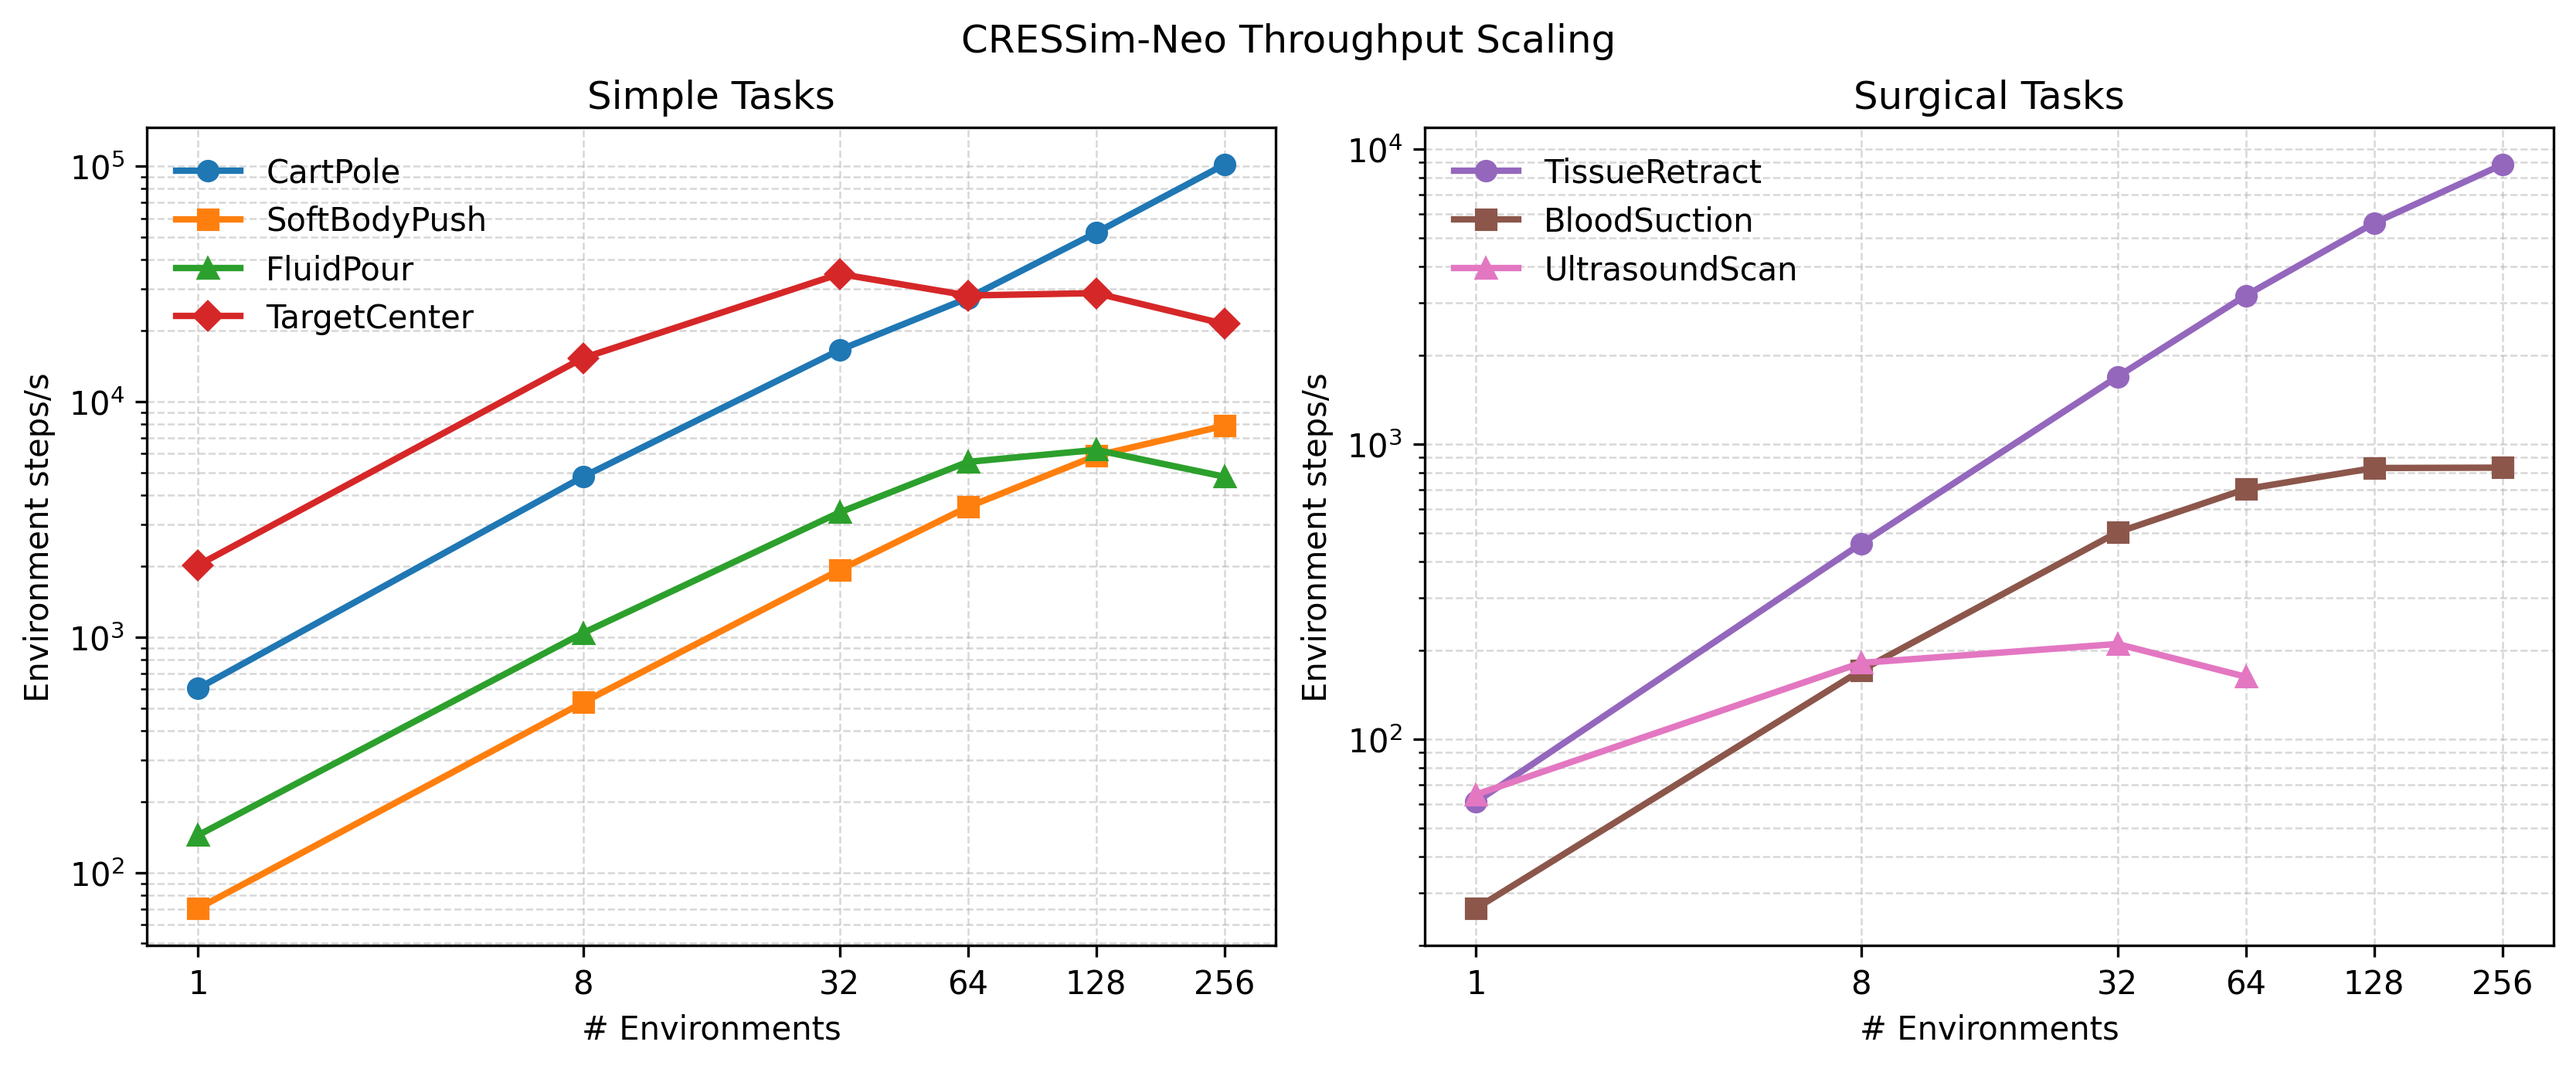
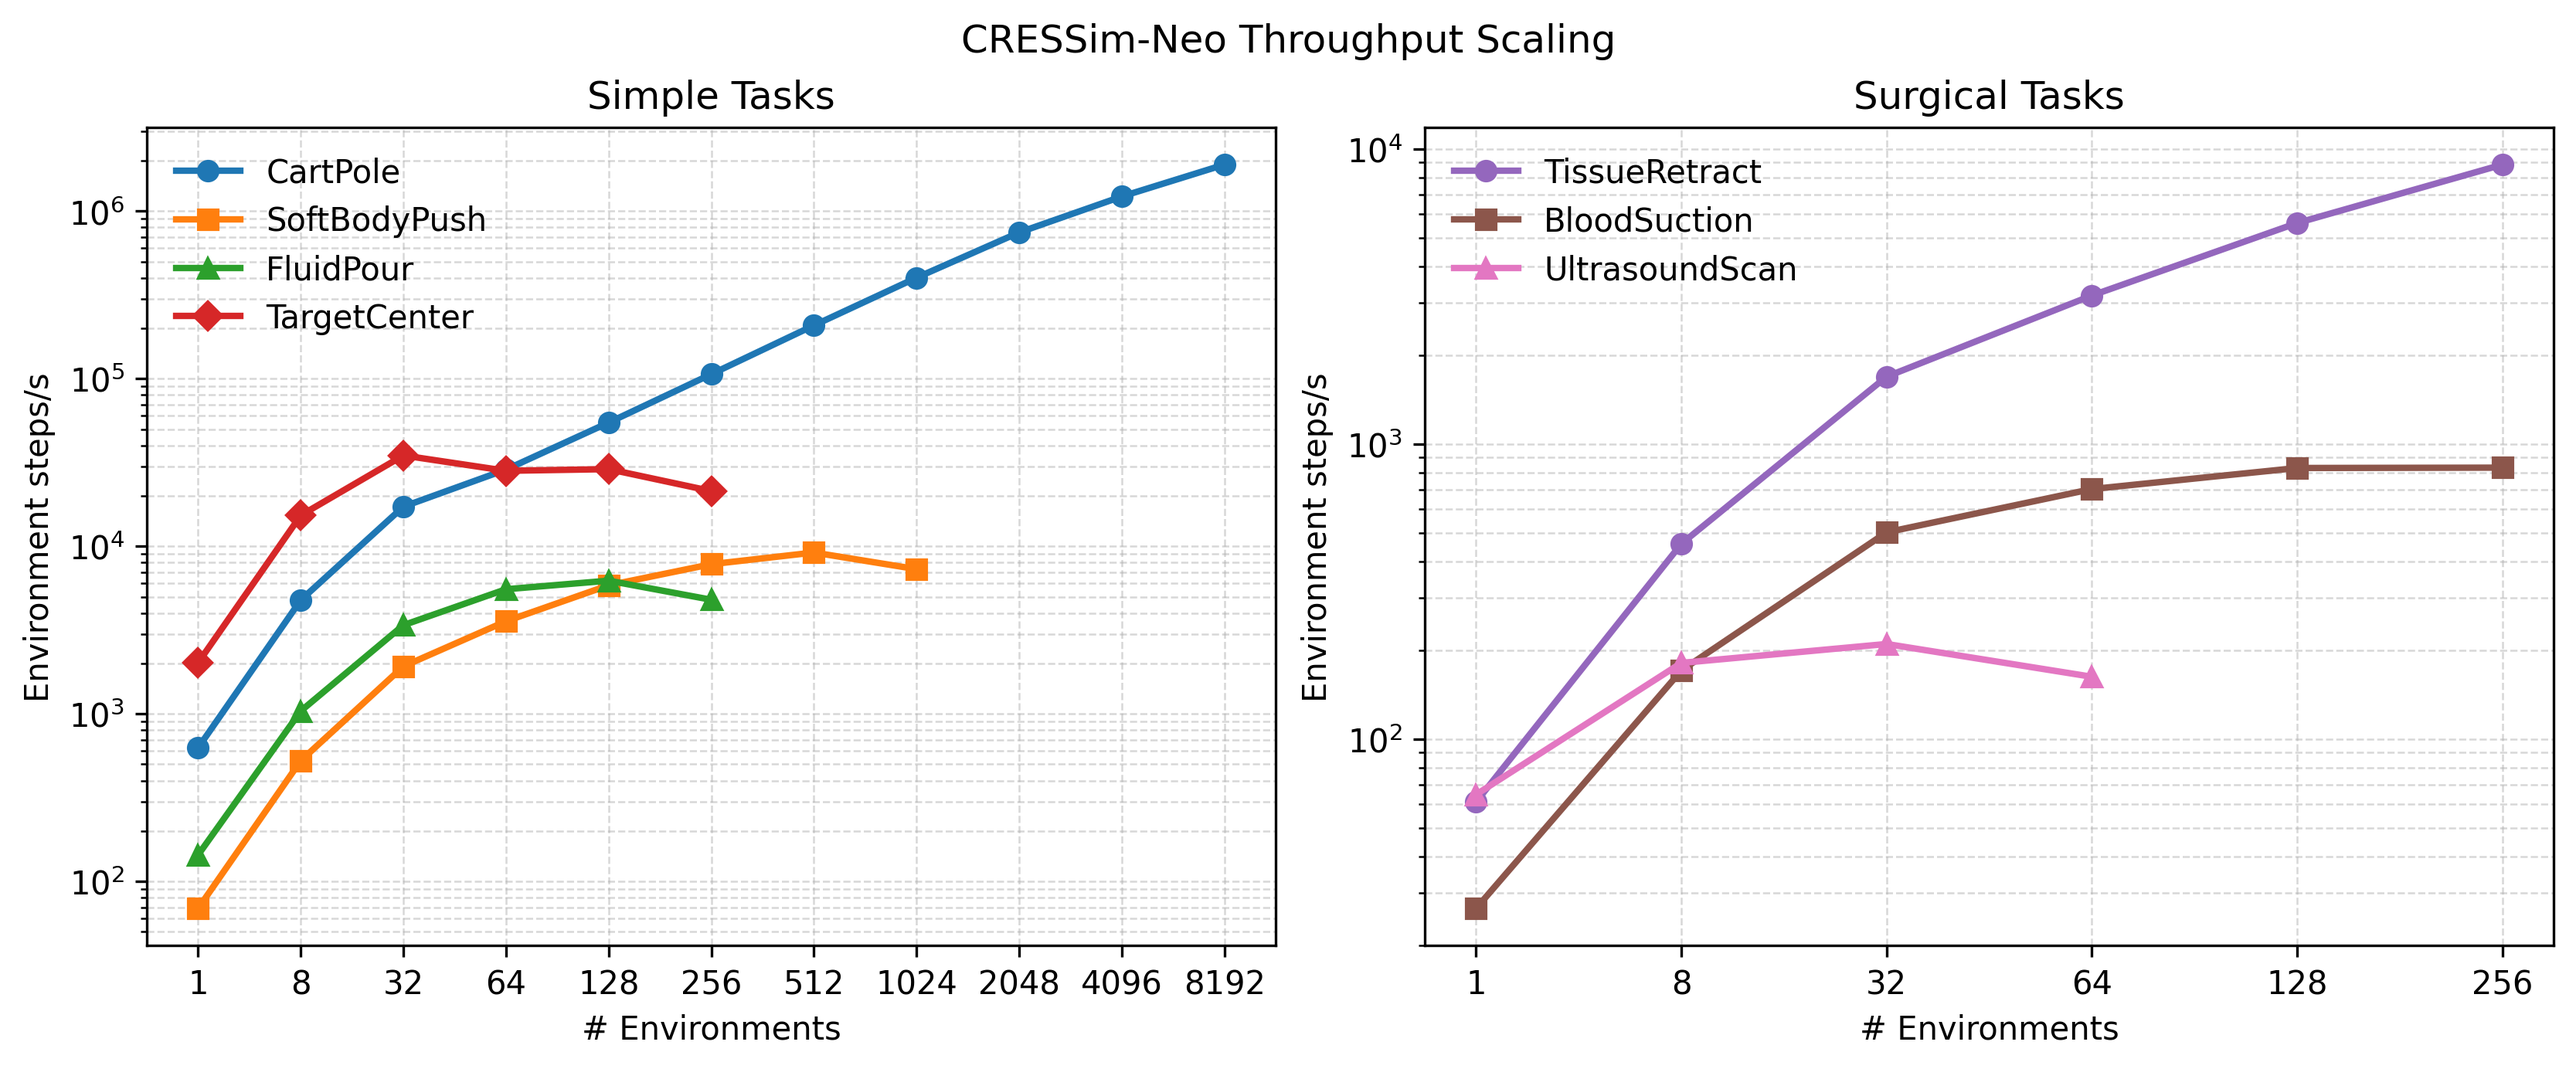
docs(benchmark): re-run and add benchmark results

diff --git a/examples/python/plot_throughput_benchmarks.py b/examples/python/plot_throughput_benchmarks.py
@@ -124,7 +124,6 @@ def filter_mode(rows: list[dict[str, str]], mode: str) -> dict[str, list[tuple[i
 
 def plot_panel(axis: object, grouped: dict[str, list[tuple[int, float]]], tasks: tuple[str, ...], title: str) -> None:
     axis.set_title(title)
-    axis.set_xscale("log", base=2)
     axis.set_yscale("log")
     axis.set_xlabel("# Environments")
     axis.set_ylabel("Environment steps/s")
@@ -134,11 +133,19 @@ def plot_panel(axis: object, grouped: dict[str, list[tuple[int, float]]], tasks:
     for task in tasks:
         if task not in grouped:
             continue
+        xticks.extend(item[0] for item in grouped[task])
+
+    unique_ticks = sorted(set(xticks))
+    tick_positions = {value: index for index, value in enumerate(unique_ticks)}
+
+    for task in tasks:
+        if task not in grouped:
+            continue
         xs = [item[0] for item in grouped[task]]
         ys = [item[1] for item in grouped[task]]
-        xticks.extend(xs)
+        x_positions = [tick_positions[value] for value in xs]
         axis.plot(
-            xs,
+            x_positions,
             ys,
             marker=TASK_MARKERS.get(task, "o"),
             color=TASK_COLORS.get(task),
@@ -147,9 +154,8 @@ def plot_panel(axis: object, grouped: dict[str, list[tuple[int, float]]], tasks:
             label=TASK_LABELS.get(task, task),
         )
 
-    if xticks:
-        unique_ticks = sorted(set(xticks))
-        axis.set_xticks(unique_ticks)
+    if unique_ticks:
+        axis.set_xticks(list(range(len(unique_ticks))))
         axis.set_xticklabels([str(value) for value in unique_ticks])
     axis.legend(frameon=False)
 
